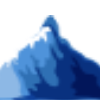
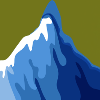
Fixing background object background and changing rally point differences

diff --git a/Assets/Scripts/Tiles/RallyPointTile.cs b/Assets/Scripts/Tiles/RallyPointTile.cs
@@ -3,9 +3,15 @@ using UnityEngine;
 
 public class RallyPointTile : Tile
 {
+    [Header("Plains Tiles")]
     [SerializeField] private Sprite plainsTile;
     [SerializeField] private Material plainsMaterial;
     private SpriteRenderer spriteRenderer;
+
+    [Header("Rally Point Sprites")]
+    [SerializeField] private Sprite playerRallyPoint;
+
+    [SerializeField] private Sprite enemyRallyPoint;
 
     protected override void Start()
     {
@@ -15,7 +21,7 @@ public class RallyPointTile : Tile
         spriteRenderer = GetComponent<SpriteRenderer>();
 
         //use correct flag color
-        spriteRenderer.color = (isPlayer) ? Color.blue : Color.red;
+        spriteRenderer.sprite = (isPlayer) ? playerRallyPoint : enemyRallyPoint;
 
         //update stored rally points in GameManager
         if (isPlayer) GameManager.Instance.playerRallyPoint = this;

diff --git a/Assets/Scripts/Tiles/CityTile.cs b/Assets/Scripts/Tiles/CityTile.cs
@@ -5,6 +5,7 @@ public class CityTile : Tile
 {
     private int production = 10;
 
+    [Header("Cities Sprites")]
     [SerializeField] private Sprite playerCity;
     [SerializeField] private Sprite enemyCity;
 
